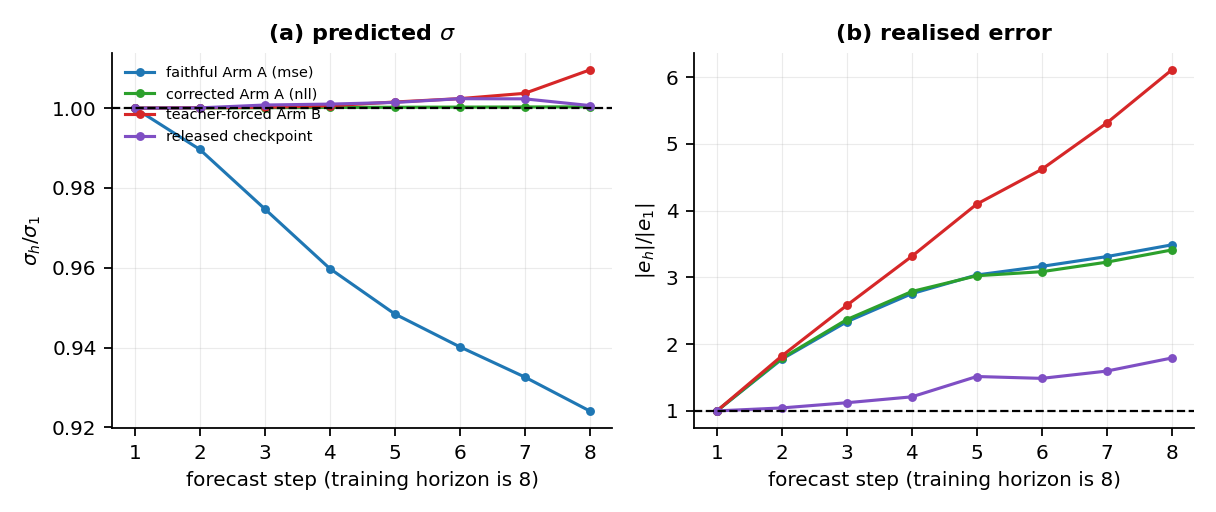
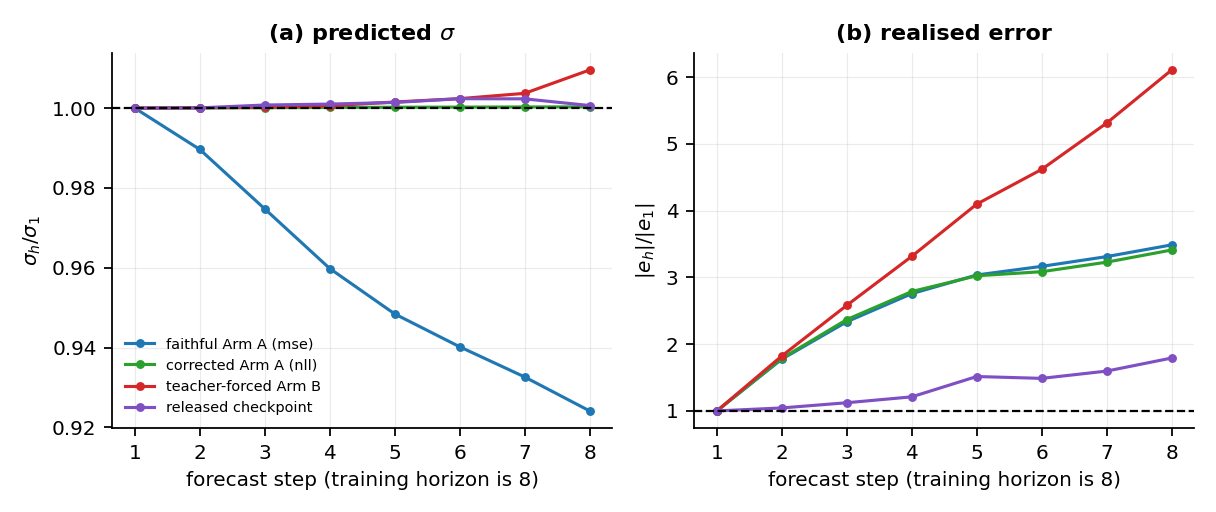
[T8][item 8] Figures: clear the label and legend collisions round 1 left open; no plotted value changes
Placement only, in scripts/paper_figures.py, regenerated through it:
- rendered Figure 2(a): 'no difference' moves under the dashed line at the
  horizons' geometric mean (it sat at h = 1 under the 0.91x label, with the
  curve through it); a ratio below 1 is labelled below-right; the crowded
  h = 100 / 128 pair splits left and right; the last label sits left of its
  point, off the top edge; the floor drops by a tenth of the range.
- rendered Figure 5(a): the legend moves to the empty lower left, off the
  curves and off the dashed 1.00 line that struck 'teacher-forced Arm B'.
- rendered Figure 6: (a) a one-row legend in headroom above the bars, ticks
  stopping at the bars' height; (b) headroom so 'mean 1.42x' clears the
  tallest bar. Figure 6 is not in the plan's 'Figures 1, 2 and 5', a list
  docs/DEFERRED.md (session 28) says was short by this one.
Checks: with the code unchanged, a regeneration was byte-identical (all six
PNGs and results/paper_figures.json); after the edit paper_figures.json is
byte-identical and only the three named PNGs differ. Every figure was viewed
before and after, the two tight spots in Figure 2(a) zoomed. The referee's
R5 items (Figure 1's value labels, Figure 2(b)'s zero-line annotation),
fixed in round 1's block B1, were re-checked and hold. DEFERRED.md gains a
RESOLVED line; the checklist's stale overlap lines go to T11 (OUT_OF_SCOPE).

Changed region(s): [[0.0938, 0.6562, 0.2812, 0.8125], [0.0938, 0.125, 0.25, 0.2812]]

diff --git a/scripts/paper_figures.py b/scripts/paper_figures.py
@@ -124,7 +124,11 @@ def fig2_sigma_profile(rec):
         a.axhline(1.0, color="k", ls="--", lw=1)
         a.set(xlabel="forecast step (training horizon is 8)", title=t)
     ax[0].set_ylabel(r"$\sigma_h/\sigma_1$"); ax[1].set_ylabel(r"$|e_h|/|e_1|$")
-    ax[0].legend(fontsize=6.5, loc="upper left")
+    # Lower left, which the data leave empty: the curves all start at 1.00 and only the
+    # faithful arm falls, to the right. At upper left the dashed 1.00 line struck through
+    # the "teacher-forced Arm B" entry and the legend covered the first four steps
+    # (round 2, T8; docs/DEFERRED.md, session 28).
+    ax[0].legend(fontsize=6.5, loc="lower left")
     rec["fig2"] = {k: {"sigma_growth_1_to_8": d[k]["sigma_growth_1_to_8"],
                        "err_growth_1_to_8": d[k]["err_growth_1_to_8"]} for k, _, _ in order}
     fig.tight_layout()
@@ -149,10 +153,31 @@ def fig6_ab_by_horizon(rec):
     r = [d["by_horizon"][str(h)]["ratio_B_over_A"] for h in hs]
     ax[0].plot(hs, r, "o-", ms=4, lw=1.6, color=C["armB"])
     ax[0].axhline(1.0, color="k", ls="--", lw=1)
-    ax[0].text(hs[0], 1.06, "no difference", fontsize=6.5, color="#555555")
-    for h, y in zip(hs, r):
-        ax[0].annotate(f"{y:.2f}x", (h, y), textcoords="offset points",
-                       xytext=(0, 6), ha="center", fontsize=6.5)
+    # Placement only; no plotted value depends on any of it (round 2, T8; docs/DEFERRED.md,
+    # block B1). "no difference" sat above the line at h = 1, where the h = 1 value label
+    # overprinted it and the curve ran through it; it now sits under the line at the
+    # horizons' geometric mean, between the h = 10 gridline and the h = 100 reference,
+    # where every ratio is well above 1. The floor drops by a tenth of the range so the
+    # labels under the line clear the axis.
+    _lo = min(min(r), 1.0)
+    ax[0].set_ylim(bottom=_lo - 0.1 * (max(r) - _lo))
+    ax[0].annotate("no difference", (float(np.exp(np.mean(np.log(hs)))), 1.0),
+                   textcoords="offset points", xytext=(0, -3), ha="center", va="top",
+                   fontsize=6.5, color="#555555")
+    for i, (h, y) in enumerate(zip(hs, r)):
+        crowd_next = i + 1 < len(hs) and hs[i + 1] / h < 1.5
+        crowd_prev = i > 0 and h / hs[i - 1] < 1.5
+        if y < 1.0:                   # below the line: label below-right, away from it
+            kw = dict(xytext=(5, -3), ha="left", va="top")
+        elif crowd_next:              # two horizons this close (h = 100, 128) split left...
+            kw = dict(xytext=(-4, 2), ha="right", va="bottom")
+        elif crowd_prev:              # ...and right, instead of both centred above
+            kw = dict(xytext=(4, -2), ha="left", va="top")
+        elif i == len(hs) - 1:        # the last point is the highest: left, off the top edge
+            kw = dict(xytext=(-6, 0), ha="right", va="center")
+        else:
+            kw = dict(xytext=(0, 6), ha="center", va="bottom")
+        ax[0].annotate(f"{y:.2f}x", (h, y), textcoords="offset points", fontsize=6.5, **kw)
     ax[0].set(xscale="log", xlabel="forecast horizon (steps)",
               ylabel="teacher forcing / autoregressive",
               title="(a) the advantage grows with horizon")
@@ -456,17 +481,26 @@ def fig5_three_way(rec):
     ax[0].set_xticks(np.arange(len(pairs)))
     ax[0].set_xticklabels([l for _, l in pairs], fontsize=7)
     ax[0].set(ylabel="cells (of 32)", title="(a) three-way outcome\nleft bar naive, right bar cluster")
-    ax[0].legend(fontsize=7)
+    # Headroom above the bars for a one-row legend. Inside the bars' range it sat on the
+    # grey "no effect" bar, which hid that entry's own grey swatch (round 2, T8;
+    # docs/DEFERRED.md, session 28). The ticks stop at the bars' height.
+    _top = max(S[p][unit]["hurt"] + S[p][unit]["helped"] + S[p][unit]["no_effect"]
+               for p, _ in pairs for unit in ("naive", "cluster"))
+    ax[0].set_ylim(0, _top * 1.3)
+    ax[0].set_yticks(np.arange(0, _top + 1, 5))
+    ax[0].legend(fontsize=7, ncol=3, loc="upper center")
     u = J("review_bootstrap_unit.json")
     cells = {k: v for k, v in u.items() if k != "_summary"}
     ratios = [v["width_ratio_cluster_over_naive"] for v in cells.values()]
-    ax[1].hist(ratios, bins=10, color="#1f77b4", alpha=0.85)
+    _n, _, _ = ax[1].hist(ratios, bins=10, color="#1f77b4", alpha=0.85)
     ax[1].axvline(1.0, color="k", ls="--", lw=1)
     ax[1].axvline(float(np.mean(ratios)), color="#d62728", lw=1.4,
                   label=f"mean {np.mean(ratios):.2f}×")
     ax[1].set(xlabel="CI width, cluster ÷ naive", ylabel="cells",
               title=f"(b) the wrong unit narrows\n{sum(1 for r in ratios if r > 1)} of {len(ratios)} intervals")
-    ax[1].legend(fontsize=7)
+    # Headroom, so the legend clears the tallest bar it used to sit on (same entry).
+    ax[1].set_ylim(0, _n.max() * 1.25)
+    ax[1].legend(fontsize=7, loc="upper right")
     rec["fig5"] = {"summary": S, "width_ratio_mean": float(np.mean(ratios))}
     fig.tight_layout()
     p = os.path.join(R.FIGURES, "paper_fig5_three_way.png")

diff --git a/docs/DEFERRED.md b/docs/DEFERRED.md
@@ -194,3 +194,4 @@ found them. Format: `[date] [session N] <file:line or section> — <what is wron
 [2026-09-27] [tail S27] Clone D (/Users/Shared/rwm_verify/cloneD) is no longer in its measured state: tail S25 ran its gates inside it after S23's measurement, as that block required, which rewrote files outside the compared set. Re-verifying it now reproduces every compared-set figure but not S23's JSON byte for byte (the carried-in partition moves). Clone E is untouched since its measurement. [class: RECORDED]
 [2026-09-27] [tail S28] docs/COVER_STATEMENT.md and docs/SUBMISSION_PACKAGE.md refreshed against the artifacts at aaf629c, per amendment 4 (updated, not rewritten). The cover statement still carried the previous pass's figures (49 pages, 314 of 9,308, 0.98%, about 102-fold, seventeen rules) and one pointer the referee revision had made stale: it said section 8 describes the withdrawn pre-registration, which since B4 is Appendix E's. The package carried the old title, sizes, checksums and figures, and counted the bare swh:1: prefix twice per bundle where it now occurs three times (the third is the anonymised log's copy of the commit subject that recorded the ruling). All corrected by evidence/S28T/refresh.py, every figure read from a file; both documents are excluded from both bundles, so no bundle changes. Nothing found in this block is left unfixed. [class: RESOLVED]
 [2026-09-30] [pre-submission S10-fix] RESOLVED — the tail S27 entry on section 8's denominator. By the user's ruling of 2026-09-30 (docs/presubmission/DECISIONS_FOR_USER.md#S11-clean-clone-blocked), section 8, docs/BUILD_CHECKS.md (two places) and README.md now say the percentage is of the numeric values under results/ that the comparison counts, and the figures were restated from a clean clone of the fixed commit. [class: RESOLVED]
+[2026-10-03] [round 2, T8] RESOLVED — the figure-label entries still open after block B1's RESOLVED line: rendered Figure 2(a) (figures/paper_fig6_ab_by_horizon.png: "0.91x" over the "no difference" label, and "2.58x" and "2.78x" crowding each other at h = 100 and 128), rendered Figure 5 (figures/paper_fig2_sigma_profile.png: the dashed 1.00 line striking the legend entry "teacher-forced Arm B"), and rendered Figure 6 (figures/paper_fig5_three_way.png: the legend over the grey "no effect" bar, and the "mean 1.42x" legend on the tallest bar). Placement only, in scripts/paper_figures.py: labels and legends moved, axis ranges given headroom. results/paper_figures.json, which records every value the panels plot, is byte-identical before and after, and so are the three figures not touched. B1's fixes to rendered Figure 1 and Figure 2(b) were re-checked by eye and hold. Before and after images are in the round's T8 evidence. [class: RESOLVED]

diff --git a/docs/presubmission/round2/OUT_OF_SCOPE.md b/docs/presubmission/round2/OUT_OF_SCOPE.md
@@ -6,3 +6,4 @@ One line per item, with file:line. Logged, not fixed (PLAN.md §1.1).
 - T5: FINDINGS_LEDGER.md `C-13` says the paper's 2,500 iterations are in "Table S7". In 2501.10100v1 Table S7 is "Baseline architecture" and the 2,500 is in Table S9, "RWM training parameters" (`docs/presubmission/sources/2501.10100v1.txt:818-827`). Appendix H cites Table S9. The ledger needs an append-only correction entry, which is not T5's.
 - T7: Appendix R (the original §11, quoted verbatim) says M-49's MDE was the size of the effect "as §6.8 said before the runs". Neither the old §6.10 nor the merged §6.8 says so in the body; the claim is in rule M-49's own text (Appendix E). This predates round 2; it is for T10 to decide whether Appendix R's sentence should point to Appendix E.
 - T7: §6.5 has a bold line, "The failure is specifically magnitude calibration, in both components.", that was already orphaned before T7 and now sits directly before the folded old §6.9. It is for T10's read.
+- T8: docs/SUBMISSION_CHECKLIST.md:122, 232, 348 and 429, and docs/SUBMISSION_PACKAGE.md:152, still describe figure-internal label overlaps in Figures 1, 2 and 5 as deferred. T8 item 8 fixed them, and the open Figure 6 collision too (docs/DEFERRED.md, the [round 2, T8] RESOLVED line). T11's package-document refresh owns both files.
